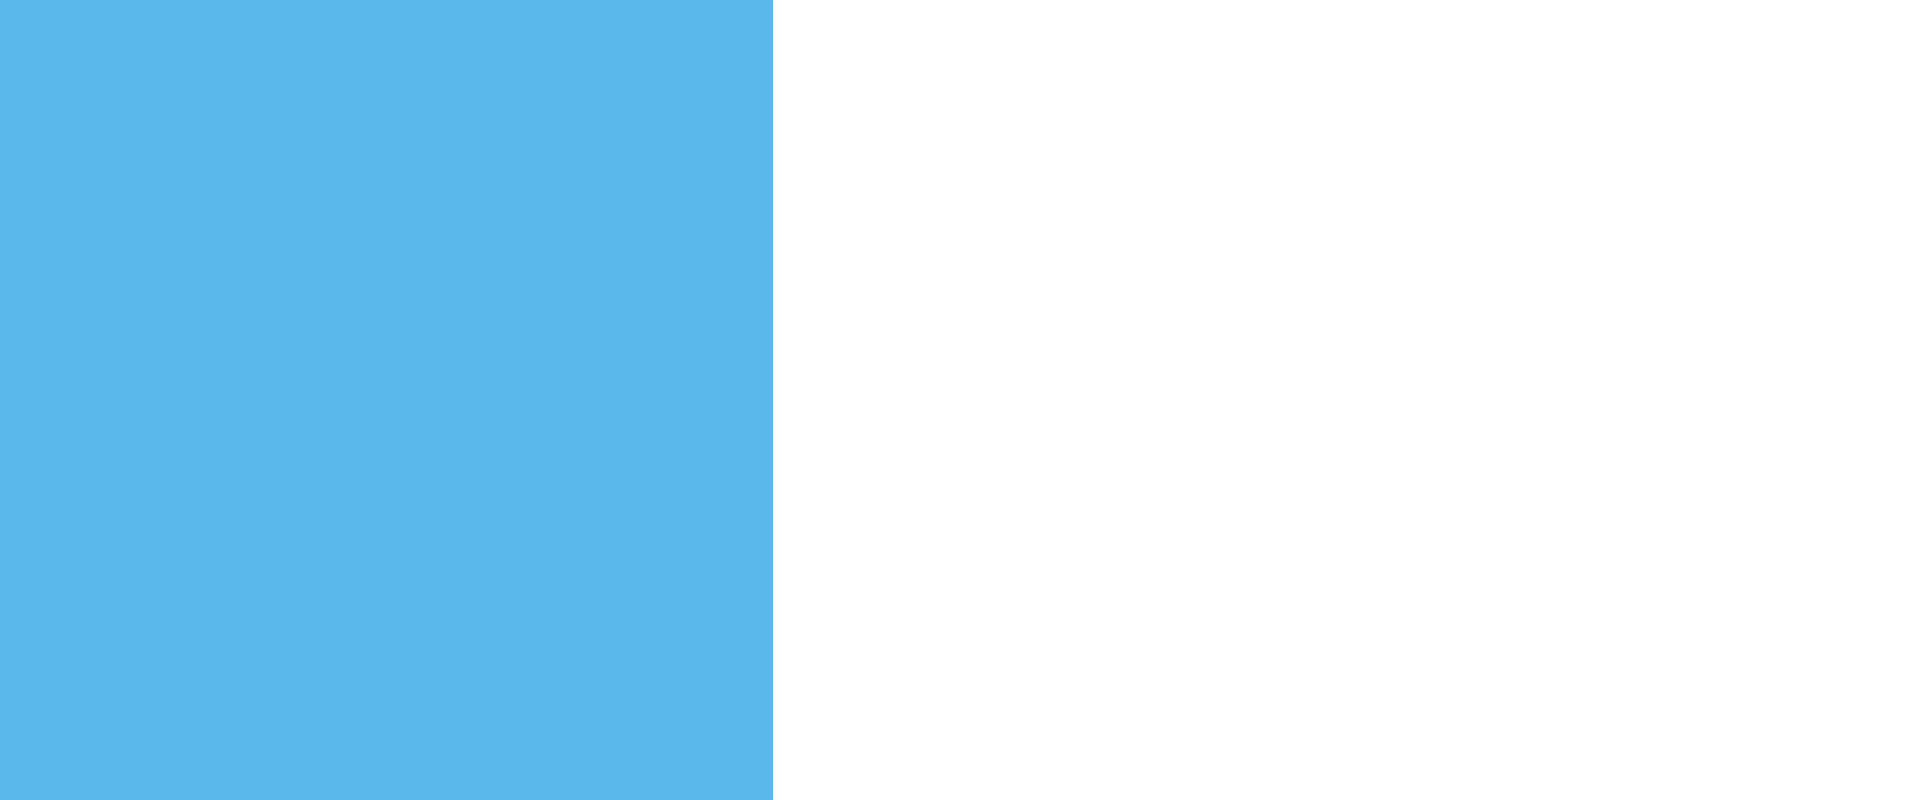
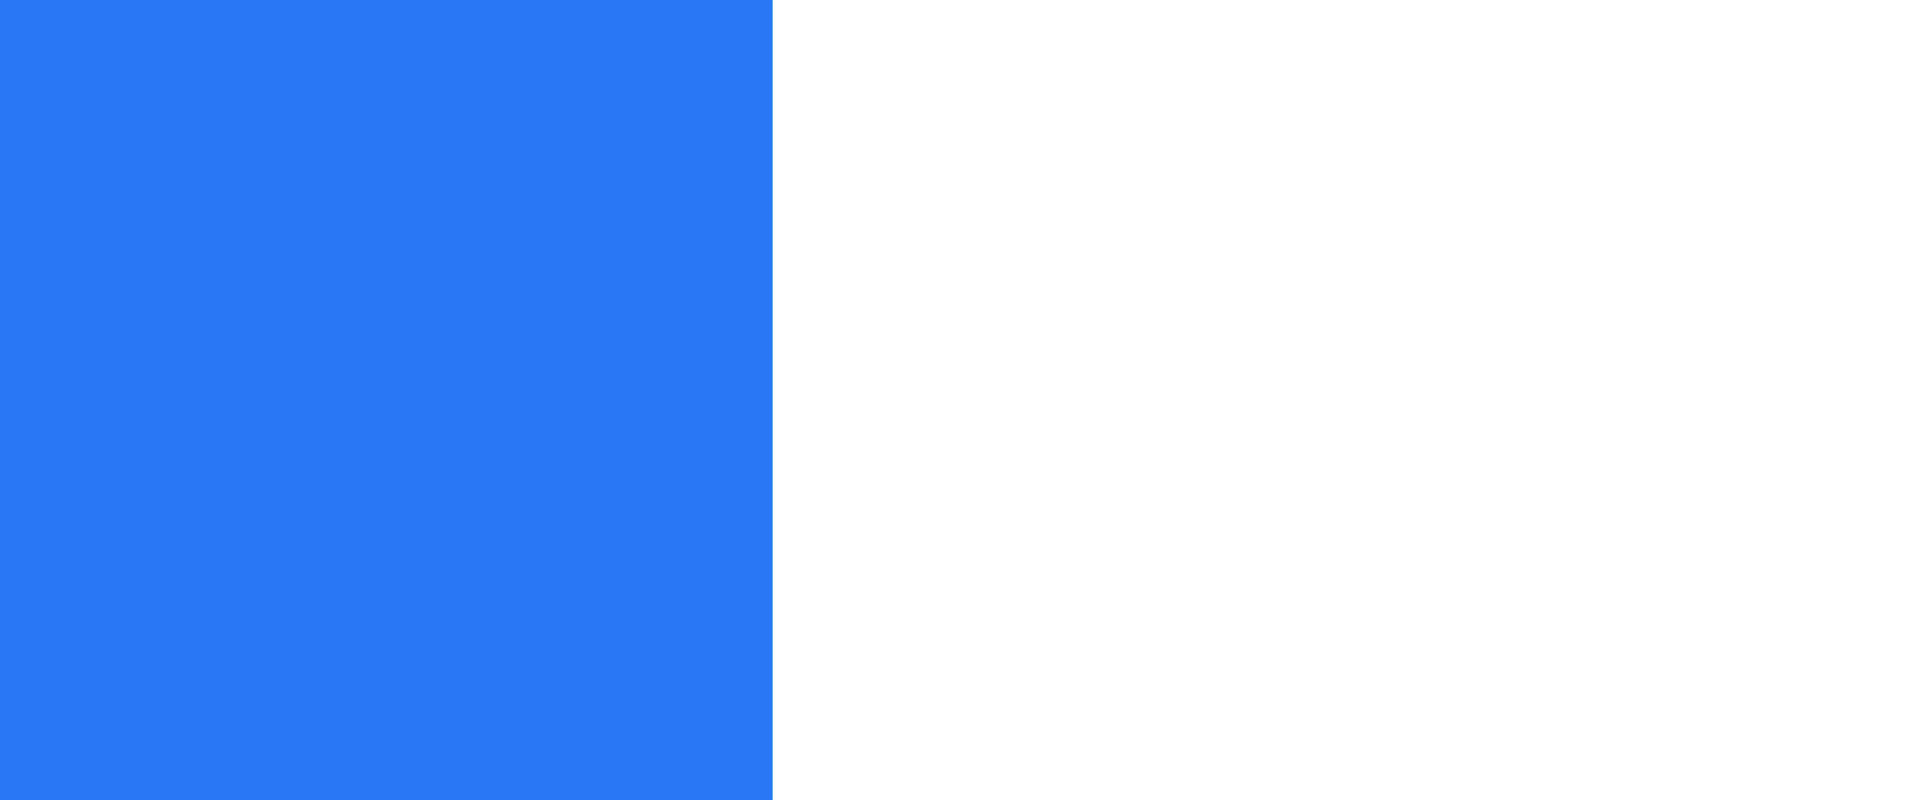
minor design changes

diff --git a/index.html b/index.html
@@ -50,7 +50,8 @@
       gtag('config', 'G-CWRDY4ZRVX');
     </script>
 
-    <!-- VISA Tracking Code for hunarbatra.com --><script>(function(v,i,s,a){if(!v._visaSettings){v._visaSettings={};}v._visaSettings["44cf8d36-420f-11eb-b589-901b0edac50a"]={v:"0.3",s:"44cf8d36-420f-11eb-b589-901b0edac50a",a:"1"};_v=i.getElementsByTagName("head")[0];_a=_v;_i=i.createElement("script");_s=_i;_s.defer="defer";_s.src=s+a+v._visaSettings["44cf8d36-420f-11eb-b589-901b0edac50a"].v;_a.appendChild(_s);})(window,document,"//app-worker.visitor-analytics.io/main",".js?s=44cf8d36-420f-11eb-b589-901b0edac50a&v=")</script><!-- VISA Tracking Code for hunarbatra.com -->
+    <!-- VISA Tracking Code for hunarbatra.com -->
+    <script>(function(v,i,s,a){if(!v._visaSettings){v._visaSettings={};}v._visaSettings["44cf8d36-420f-11eb-b589-901b0edac50a"]={v:"0.3",s:"44cf8d36-420f-11eb-b589-901b0edac50a",a:"1"};_v=i.getElementsByTagName("head")[0];_a=_v;_i=i.createElement("script");_s=_i;_s.defer="defer";_s.src=s+a+v._visaSettings["44cf8d36-420f-11eb-b589-901b0edac50a"].v;_a.appendChild(_s);})(window,document,"//app-worker.visitor-analytics.io/main",".js?s=44cf8d36-420f-11eb-b589-901b0edac50a&v=")</script><!-- VISA Tracking Code for hunarbatra.com -->
   </head>
 
   <body>
@@ -276,7 +277,7 @@
                     "Creating intelligent software to solve the greatest issues innovatively and bring a smile on peoples’ face 🙂",
                   ],
                   loop: true,
-                  delay: 4000, // Deltarget="_blank" ay between messages
+                  delay: 4000, // Delay between messages
                   startDelay: 1500, // Delay before starting the animation
                   restartDelay: 20000, // Delay before restarting the animation if loop is set to true
                   loop: false, // Loop the animation

diff --git a/css/main.css b/css/main.css
@@ -926,7 +926,7 @@ th {
   transition: all 0.3s ease 0s;
 }
 #back-top a {
-  background: #b6dff5;
+  background: #2977f5; /* old colour scheme #b6dff5 */
   display: block;
   text-align: center;
   width: 35px;
@@ -1079,7 +1079,7 @@ th {
   bottom: -35px;
   width: 10px;
   height: 10px;
-  background: #fff;
+  background: #2977f5;
   border-radius: 7px;
 }
 
@@ -1132,7 +1132,7 @@ th {
   bottom: -31px;
   width: 100px;
   height: 2px;
-  background: #ffffff;
+  background: #2977f5;
 }
 @media (max-width: 1024px) {
   .section-title2 h2:after {
@@ -2760,7 +2760,7 @@ body.mobile-nav-active #mobile-nav-toggle {
 }
 
 .home-banner-area {
-  /* background: url(../img/banner-right.jpg) center; */
+  background: url(../img/banner-right.jpg) center;
   background-size: cover;
   background-repeat: repeat-y;
   min-height: 100%;
